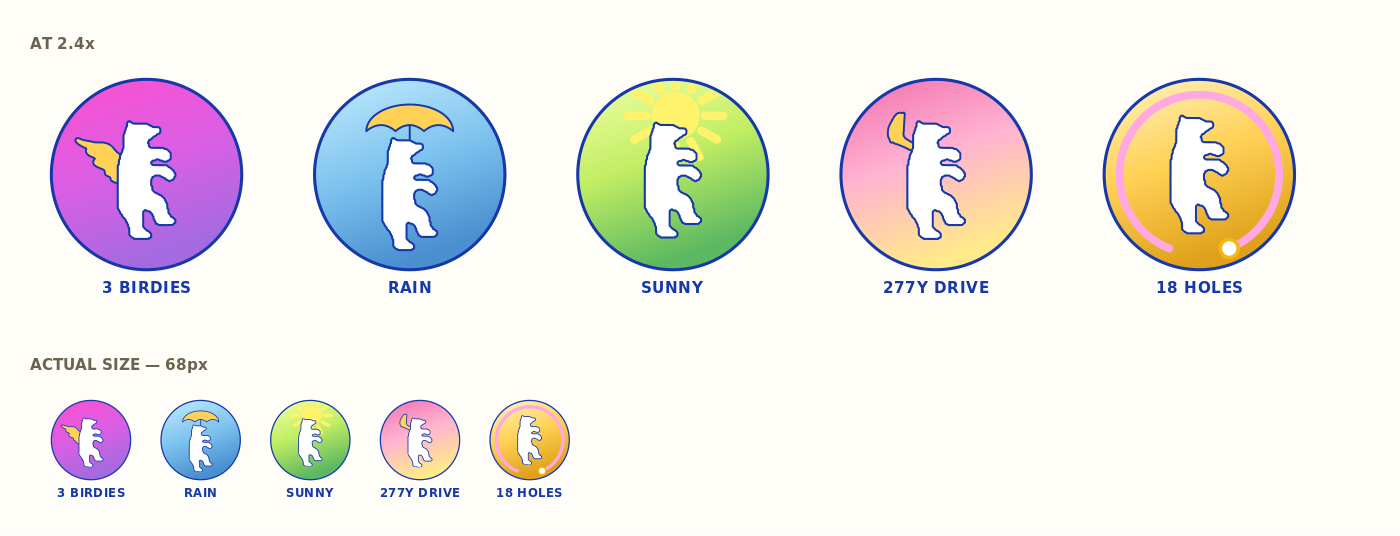
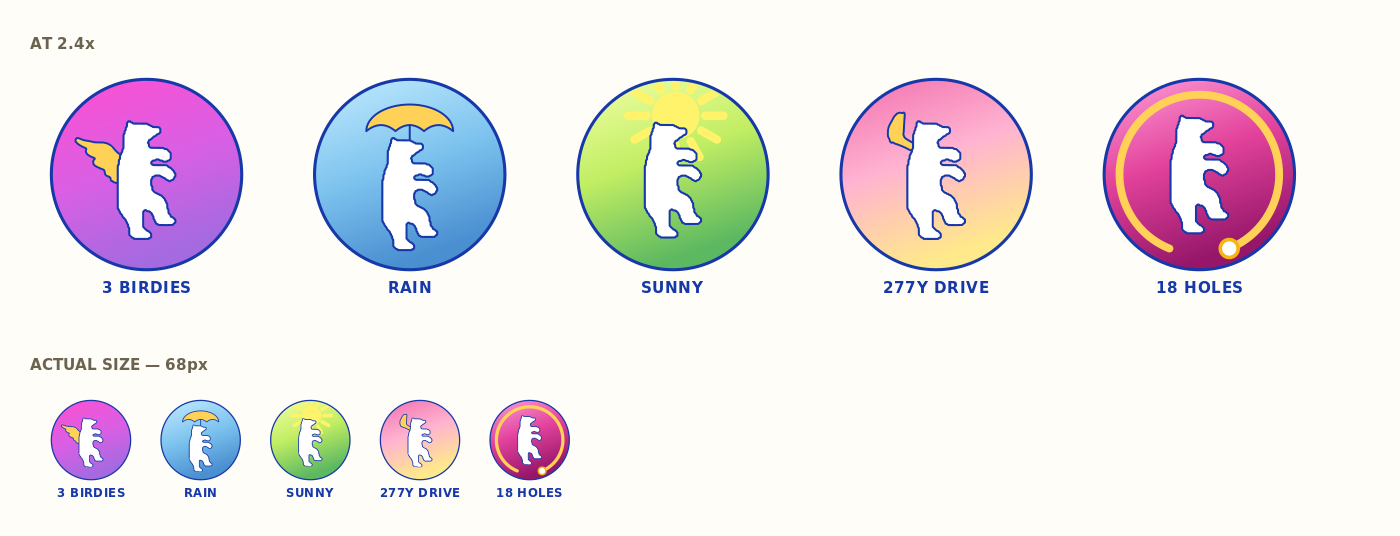
Full-round seal: berry field, gold ring
Inverts what it was. The ring is now gold, like every other prop in the set —
the wing, the club, the canopy — so the added element is one colour throughout
and the field is what varies. That is the more consistent rule of the two, and
it only became visible by trying the swap.

Field #ff9fd8 -> #e2429b -> #96176a. Deep enough that the gold ring carries,
and berry rather than violet, which keeps it clear of the birdie seal's
magenta-to-purple.

Changed region(s): [[0.7679, 0.1493, 0.9214, 0.5075], [0.3379, 0.7463, 0.43, 0.8955]]

diff --git a/pwa/index.html b/pwa/index.html
@@ -875,7 +875,7 @@ const RF_GRAD={
   rain:[['0','#c3ecff'],['.55','#7cc2ee'],['1','#4a8fd0']],
   sun :[['0','#f2ffa8'],['.55','#c2ee63'],['1','#5cb861']],
   drive:[['0','#f26fae'],['.5','#ffb3d1'],['1','#ffe98a']],
-  full:[['0','#fff3c4'],['.5','#ffd257'],['1','#e0a11a']]
+  full:[['0','#ff9fd8'],['.5','#e2429b'],['1','#96176a']]
 };
 function rfShape(d, w, cx, cy, h, rot){
   const sc=h/100;
@@ -928,7 +928,7 @@ function rfSeal(kind, cap){
   if(kind==='bird')  art=rfWing(-4, 18, -8.2) + rfBear(0, 23, 42);
   else if(kind==='rain')  art=rfUmbrella(0, -25, 15.5, 9.5) + rfBear(0, 27, 40);
   else if(kind==='drive') art=rfShape(RF_CLUB, RF_CW, -10, -13, 18, -45) + rfBear(0, 23, 42);
-  else if(kind==='full')  art=rfRound(28.5, 112, 428, '#ffa8e2', 2.8) + rfBear(0, 21, 42);
+  else if(kind==='full')  art=rfRound(28.5, 112, 428, RF_GOLD, 2.8) + rfBear(0, 21, 42);
   else                    art=rfSun(1, -21, 17, '#fff36b') + rfBear(0, 22.5, 41);
   return `<div class="bl-seal"><svg viewBox="-34 -34 68 68" width="68" height="68">`
     + `<defs><linearGradient id="${id}" x1="0" y1="0" x2="0.35" y2="1">${stops}</linearGradient>`

diff --git a/wbyc-rangefinder-template.html b/wbyc-rangefinder-template.html
@@ -875,7 +875,7 @@ const RF_GRAD={
   rain:[['0','#c3ecff'],['.55','#7cc2ee'],['1','#4a8fd0']],
   sun :[['0','#f2ffa8'],['.55','#c2ee63'],['1','#5cb861']],
   drive:[['0','#f26fae'],['.5','#ffb3d1'],['1','#ffe98a']],
-  full:[['0','#fff3c4'],['.5','#ffd257'],['1','#e0a11a']]
+  full:[['0','#ff9fd8'],['.5','#e2429b'],['1','#96176a']]
 };
 function rfShape(d, w, cx, cy, h, rot){
   const sc=h/100;
@@ -928,7 +928,7 @@ function rfSeal(kind, cap){
   if(kind==='bird')  art=rfWing(-4, 18, -8.2) + rfBear(0, 23, 42);
   else if(kind==='rain')  art=rfUmbrella(0, -25, 15.5, 9.5) + rfBear(0, 27, 40);
   else if(kind==='drive') art=rfShape(RF_CLUB, RF_CW, -10, -13, 18, -45) + rfBear(0, 23, 42);
-  else if(kind==='full')  art=rfRound(28.5, 112, 428, '#ffa8e2', 2.8) + rfBear(0, 21, 42);
+  else if(kind==='full')  art=rfRound(28.5, 112, 428, RF_GOLD, 2.8) + rfBear(0, 21, 42);
   else                    art=rfSun(1, -21, 17, '#fff36b') + rfBear(0, 22.5, 41);
   return `<div class="bl-seal"><svg viewBox="-34 -34 68 68" width="68" height="68">`
     + `<defs><linearGradient id="${id}" x1="0" y1="0" x2="0.35" y2="1">${stops}</linearGradient>`

diff --git a/wbyc-rangefinder.html b/wbyc-rangefinder.html
@@ -875,7 +875,7 @@ const RF_GRAD={
   rain:[['0','#c3ecff'],['.55','#7cc2ee'],['1','#4a8fd0']],
   sun :[['0','#f2ffa8'],['.55','#c2ee63'],['1','#5cb861']],
   drive:[['0','#f26fae'],['.5','#ffb3d1'],['1','#ffe98a']],
-  full:[['0','#fff3c4'],['.5','#ffd257'],['1','#e0a11a']]
+  full:[['0','#ff9fd8'],['.5','#e2429b'],['1','#96176a']]
 };
 function rfShape(d, w, cx, cy, h, rot){
   const sc=h/100;
@@ -928,7 +928,7 @@ function rfSeal(kind, cap){
   if(kind==='bird')  art=rfWing(-4, 18, -8.2) + rfBear(0, 23, 42);
   else if(kind==='rain')  art=rfUmbrella(0, -25, 15.5, 9.5) + rfBear(0, 27, 40);
   else if(kind==='drive') art=rfShape(RF_CLUB, RF_CW, -10, -13, 18, -45) + rfBear(0, 23, 42);
-  else if(kind==='full')  art=rfRound(28.5, 112, 428, '#ffa8e2', 2.8) + rfBear(0, 21, 42);
+  else if(kind==='full')  art=rfRound(28.5, 112, 428, RF_GOLD, 2.8) + rfBear(0, 21, 42);
   else                    art=rfSun(1, -21, 17, '#fff36b') + rfBear(0, 22.5, 41);
   return `<div class="bl-seal"><svg viewBox="-34 -34 68 68" width="68" height="68">`
     + `<defs><linearGradient id="${id}" x1="0" y1="0" x2="0.35" y2="1">${stops}</linearGradient>`

diff --git a/WBYC-Rangefinder-Guide.html b/WBYC-Rangefinder-Guide.html
@@ -492,7 +492,7 @@ footer{margin-top:40px;padding-top:18px;border-top:1px solid var(--line);
   <div class="note">A little whimsy hides in here for those who explore — long‑press <b>± ELEV</b> to golf on the Moon, for one.</div>
 
   <footer>
-    <p style="margin:0 0 10px">User guide · app v189 · August 2026 · live at <a href="https://wbyc-rangefinder.netlify.app">wbyc-rangefinder.netlify.app</a></p>
+    <p style="margin:0 0 10px">User guide · app v190 · August 2026 · live at <a href="https://wbyc-rangefinder.netlify.app">wbyc-rangefinder.netlify.app</a></p>
     Data: scorecard from the club; course geometry © OpenStreetMap contributors (ODbL); elevation &amp; aerials from USGS 3DEP / NAIP (public domain).
   </footer>
 

diff --git a/pwa/guide/index.html b/pwa/guide/index.html
@@ -492,7 +492,7 @@ footer{margin-top:40px;padding-top:18px;border-top:1px solid var(--line);
   <div class="note">A little whimsy hides in here for those who explore — long‑press <b>± ELEV</b> to golf on the Moon, for one.</div>
 
   <footer>
-    <p style="margin:0 0 10px">User guide · app v189 · August 2026 · live at <a href="https://wbyc-rangefinder.netlify.app">wbyc-rangefinder.netlify.app</a></p>
+    <p style="margin:0 0 10px">User guide · app v190 · August 2026 · live at <a href="https://wbyc-rangefinder.netlify.app">wbyc-rangefinder.netlify.app</a></p>
     Data: scorecard from the club; course geometry © OpenStreetMap contributors (ODbL); elevation &amp; aerials from USGS 3DEP / NAIP (public domain).
   </footer>
 

diff --git a/pwa/sw.js b/pwa/sw.js
@@ -1,5 +1,5 @@
 /* WBYC Rangefinder service worker — offline-first app shell */
-const VERSION = 'wbyc-v189';
+const VERSION = 'wbyc-v190';
 const SHELL = ['./', './index.html', './manifest.webmanifest',
                './icon-192.png', './icon-512.png', './course_data_v2.json'];
 

diff --git a/make_bear_stickers.py b/make_bear_stickers.py
@@ -36,7 +36,7 @@ def club(cx, cy, h=20, rot=0):
             f'<path d="{CLUB}" fill="{GOLD}" stroke="{NAVY}" stroke-width="{0.7/sc:.2f}" '
             f'vector-effect="non-scaling-stroke" stroke-linejoin="round"/></g>')
 
-def rnd(cx, cy, r=28.5, a0=112, a1=428, ink='#ffa8e2', w=2.8):
+def rnd(cx, cy, r=28.5, a0=112, a1=428, ink=GOLD, w=2.8):
     """the round itself — an open ring from bottom-left round to bottom-right with
     the ball resting at the end, the same figure as the app icon."""
     import math
@@ -68,7 +68,7 @@ GRADS = {
  'g-rain': [('0%','#c3ecff'),('55%','#7cc2ee'),('100%','#4a8fd0')],
  'g-sun':  [('0%','#f2ffa8'),('50%','#c2ee63'),('100%','#5cb861')],
  'g-drive':[('0%','#f26fae'),('50%','#ffb3d1'),('100%','#ffe98a')],
- 'g-full': [('0%','#fff3c4'),('50%','#ffd257'),('100%','#e0a11a')],
+ 'g-full': [('0%','#ff9fd8'),('50%','#e2429b'),('100%','#96176a')],
 }
 SET=[
  dict(cap='3 BIRDIES', grad='g-bird', art=lambda cx,cy: wings(cx, cy-4, 18, 1.0, root=cx-8.2) + bear(cx, cy+23, 42)),
